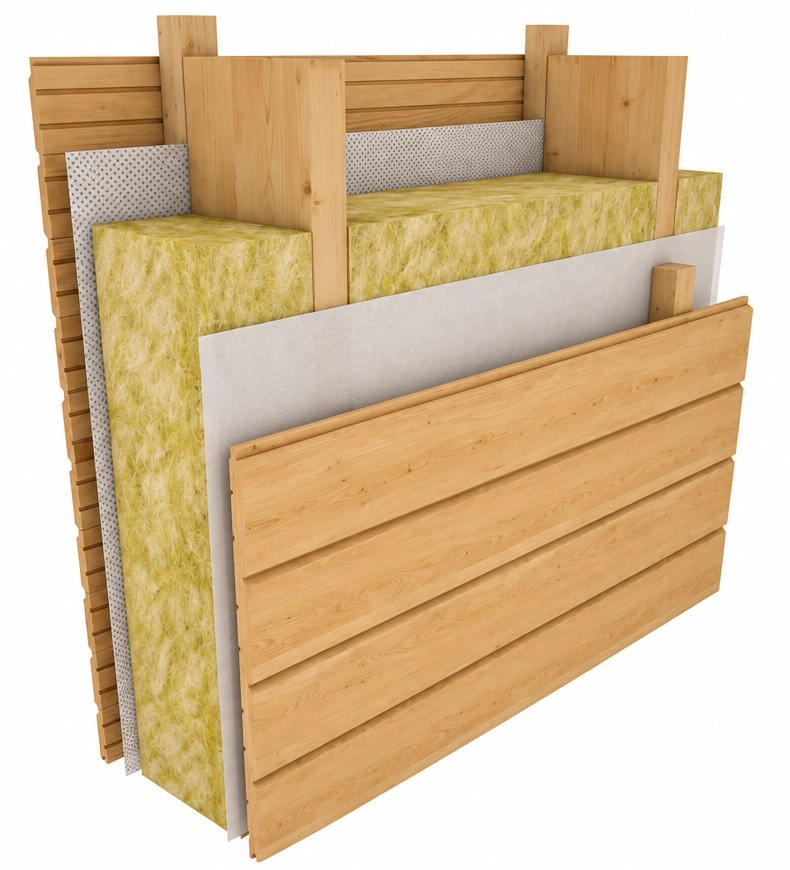
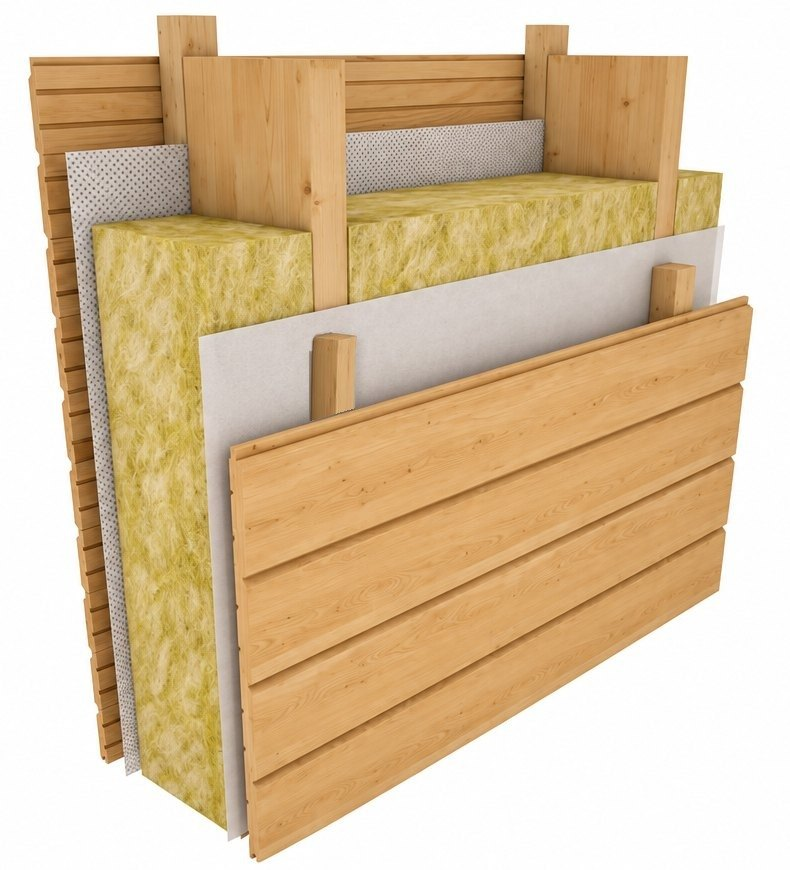
Reviews carousel, editable mortgage inputs, hours and map in contacts, MAX/VK links

Changed region(s): [[0.3646, 0.3724, 0.4557, 0.4966]]

diff --git a/css/style.css b/css/style.css
@@ -63,6 +63,8 @@ h1,h2,h3{font-family:'Inter Display','Inter',sans-serif;font-weight:800;letter-s
 .intro .mob{display:none}
 .stage video,.stage .night{position:absolute;inset:0;width:100%;height:100%;object-fit:cover;object-position:42% 50%}
 .stage .night{opacity:0}
+.stage canvas.pre{position:absolute;inset:0;width:100%;height:100%;object-fit:cover;object-position:42% 50%;transition:opacity .5s}
+.stage canvas.pre.off{opacity:0;pointer-events:none}
 .shade{position:absolute;inset:0;pointer-events:none;
   background:linear-gradient(180deg,rgba(25,17,11,.35) 0%,rgba(25,17,11,0) 22%,rgba(25,17,11,0) 55%,rgba(25,17,11,.55) 100%)}
 .tint{position:absolute;inset:0;pointer-events:none;opacity:0}
@@ -343,6 +345,13 @@ select{width:100%;appearance:none;-webkit-appearance:none;padding:16px 44px 16px
 .rng-top{display:flex;justify-content:space-between;align-items:baseline;gap:12px;margin-bottom:12px}
 .rng label{font-size:14px;font-weight:600;color:var(--muted)}
 .rng output{font-family:'Inter Display';font-weight:800;font-size:22px}
+.rng .num{display:inline-flex;align-items:baseline;gap:6px;font-family:'Inter Display';font-weight:800;font-size:22px;white-space:nowrap}
+.rng .num i{font-style:normal}
+.rng .num em{font-style:normal;color:var(--muted);font-size:18px}
+.ninp{font:inherit;color:inherit;width:9.2ch;text-align:right;border:0;border-bottom:1.5px dashed rgba(59,42,31,.35);background:transparent;padding:0 2px 1px;border-radius:0;outline:none;transition:border-color .2s,background .2s}
+.ninp.sm{width:3ch}
+.ninp:hover{border-bottom-color:var(--green)}
+.ninp:focus{border-bottom:1.5px solid var(--green);background:rgba(94,158,75,.08)}
 input[type=range]{width:100%;-webkit-appearance:none;appearance:none;height:6px;border-radius:3px;background:linear-gradient(90deg,var(--green) var(--p,50%),#e6ddd0 var(--p,50%));outline:none}
 input[type=range]::-webkit-slider-thumb{-webkit-appearance:none;width:24px;height:24px;border-radius:50%;background:#fff;border:3px solid var(--kofe);cursor:pointer;box-shadow:0 2px 8px rgba(0,0,0,.15)}
 input[type=range]::-moz-range-thumb{width:20px;height:20px;border-radius:50%;background:#fff;border:3px solid var(--kofe);cursor:pointer}
@@ -386,13 +395,31 @@ input[type=range]::-moz-range-thumb{width:20px;height:20px;border-radius:50%;bac
 
 /* ---------- индивидуальный проект ---------- */
 .custom{display:grid;grid-template-columns:1.1fr 1fr;gap:clamp(28px,5vw,64px);align-items:center}
-.custom-img{border-radius:24px;overflow:hidden;aspect-ratio:16/11}
+.custom-img{border-radius:24px;overflow:hidden;aspect-ratio:1448/1024}
 .custom-img img{width:100%;height:100%;object-fit:cover}
 .custom-txt p{margin:18px 0 22px;line-height:1.65;color:var(--muted);font-size:16px}
 .tags{display:flex;gap:8px;flex-wrap:wrap;margin-bottom:28px}
 .tags span{padding:9px 14px;border-radius:999px;background:var(--slivki);font-size:14px;font-weight:500}
 
 /* ---------- отзывы ---------- */
+.rvwrap{position:relative}
+.rvtrk{display:flex;gap:28px;overflow-x:auto;scroll-snap-type:x mandatory;scrollbar-width:none;padding:18px 6px 10px;-webkit-overflow-scrolling:touch}
+.rvtrk::-webkit-scrollbar{display:none}
+.rvc{flex:none;width:250px;margin:0;scroll-snap-align:start;text-align:center}
+.rvc:nth-child(odd) .rvph{transform:rotate(-2deg)}.rvc:nth-child(even) .rvph{transform:rotate(1.6deg)}
+.rvph{display:block;width:100%;aspect-ratio:9/17;border-radius:30px;background:#1e1712;padding:9px;box-shadow:0 18px 40px rgba(59,42,31,.22);position:relative;overflow:hidden;transition:transform .3s}
+.rvph:hover{transform:rotate(0) translateY(-4px)!important}
+.rvph img{width:100%;height:100%;object-fit:cover;object-position:top;border-radius:22px;display:block;background:#fff}
+.rvc.empty .rvph{background:#2a1e16}
+.rvc.empty .rvph:before{content:"";position:absolute;inset:9px;border-radius:22px;background:#efe7db}
+.rvc.empty .rvbar{position:absolute;left:9px;right:9px;top:9px;height:11%;border-radius:22px 22px 0 0;background:#d9cdbb;z-index:1}
+.rvb{position:absolute;z-index:1;height:8%;border-radius:14px;background:#fff;width:62%;box-shadow:0 1px 2px rgba(0,0,0,.06)}
+.rvb.l{left:10%;top:17%}.rvb.r{right:10%;top:28%;background:#d8ebcf;width:50%}.rvb.l.s{top:39%;width:44%}
+.rvc.empty p{position:absolute;z-index:1;left:0;right:0;bottom:16%;font-size:14px;font-weight:600;color:var(--muted);line-height:1.4}
+.rvc figcaption{margin-top:16px}
+.rvc figcaption b{display:block;font-size:16px}
+.rvc figcaption small{color:var(--muted);font-size:13px}
+.rvc.empty figcaption{opacity:.45}
 .reviews{display:grid;grid-template-columns:repeat(3,1fr);gap:20px}
 .rv{background:var(--paper);border-radius:var(--r);padding:26px;border:1px solid var(--line)}
 .rv p{line-height:1.6;margin-bottom:16px}
@@ -413,6 +440,11 @@ input[type=range]::-moz-range-thumb{width:20px;height:20px;border-radius:50%;bac
 .clist span{font-size:13px;color:rgba(243,236,225,.55);text-transform:uppercase;letter-spacing:.12em;font-weight:600}
 .clist a{font-size:clamp(17px,1.8vw,21px);font-weight:500;line-height:1.4}
 .clist a:hover{color:var(--brus)}
+.hours{font-size:clamp(17px,1.8vw,21px);font-weight:500;line-height:1.5}
+.map{position:relative;margin-top:clamp(28px,4vw,48px);height:400px;border-radius:var(--r);overflow:hidden;background:rgba(243,236,225,.06);border:1px solid rgba(243,236,225,.12)}
+.map iframe{position:absolute;inset:0;width:100%;height:100%;border:0}
+.map-open{position:absolute;left:14px;bottom:14px;z-index:2;background:var(--paper);color:var(--kofe);font-weight:600;font-size:14px;padding:10px 14px;border-radius:10px;box-shadow:0 6px 18px rgba(0,0,0,.25)}
+.map-open:hover{background:#fff}
 .msg{display:flex;gap:10px;flex-wrap:wrap}
 .mbtn{display:inline-flex;align-items:center;gap:10px;padding:13px 18px;border-radius:12px;border:1.5px solid rgba(243,236,225,.25);font-weight:600;font-size:15px;transition:all .2s}
 .mbtn svg{width:20px;height:20px;fill:currentColor}
@@ -496,6 +528,18 @@ input[type=range]::-moz-range-thumb{width:20px;height:20px;border-radius:50%;bac
 
 /* ---------- телефон ---------- */
 @media (max-width:760px){
+  .why{gap:12px}
+  .wi{display:grid;grid-template-columns:36px 1fr;column-gap:14px;row-gap:4px;align-items:center;padding:18px 20px}
+  .wi svg{width:36px;height:36px;margin:0;display:block}
+  .wi h3{font-size:19px;margin:0}
+  .wi p{grid-column:2}
+  .sec{padding:36px 0}
+  .head{gap:12px;margin-bottom:22px}
+  .rvtrk{padding:6px 4px 6px;gap:20px}
+  .rvc figcaption{margin-top:10px}
+  .map{height:320px}
+  .rvc{width:200px}
+  .rng .num{font-size:19px}
   .oit{height:220px}
   .msg{display:grid;grid-template-columns:1fr 1fr}
   .msg .mbtn{justify-content:center}
@@ -511,7 +555,7 @@ input[type=range]::-moz-range-thumb{width:20px;height:20px;border-radius:50%;bac
   .tint.i{background:linear-gradient(180deg,rgba(25,17,11,.55) 0%,rgba(25,17,11,.25) 45%,rgba(25,17,11,0) 70%)}
   .facts{gap:14px;flex-wrap:nowrap;width:100%;justify-content:space-between}
   .facts div{font-size:11px}.facts b{font-size:19px}
-  .stage video,.stage .night{object-position:38% 50%}
+  .stage video,.stage .night,.stage canvas.pre{object-position:38% 50%}
   .hint{bottom:90px}
   .rail{bottom:calc(76px + env(safe-area-inset-bottom))}
   .card{bottom:calc(96px + env(safe-area-inset-bottom))}

diff --git a/index.html b/index.html
@@ -13,7 +13,7 @@
 <meta property="og:image" content="media/poster.jpg">
 <link rel="icon" type="image/png" href="media/favicon.png">
 <link rel="preload" href="fonts/InterDisplay-ExtraBold.woff" as="font" type="font/woff" crossorigin>
-<link rel="stylesheet" href="css/style.css?v=9">
+<link rel="stylesheet" href="css/style.css?v=12">
 </head>
 <body>
 
@@ -258,21 +258,21 @@
         <div class="eyebrow">Ипотека</div>
         <h2>Ежемесячный платёж</h2>
       </div>
-      <p>Посчитайте примерный платёж по ипотеке на строительство дома.</p>
+      <p>Посчитайте примерный платёж по ипотеке на строительство дома. Цифры можно двигать ползунком или вписать вручную.</p>
     </div>
     <div class="mort">
       <div class="mort-form">
         <div class="seg" id="m-prog"></div>
         <div class="rng">
-          <div class="rng-top"><label for="m-sum">Стоимость дома</label><output id="m-sum-o"></output></div>
-          <input type="range" id="m-sum" min="1000000" max="10000000" step="10000">
+          <div class="rng-top"><label for="m-sum-o">Стоимость дома</label><span class="num"><input id="m-sum-o" class="ninp" inputmode="numeric" autocomplete="off"><i>₽</i></span></div>
+          <input type="range" id="m-sum" min="1000000" max="15000000" step="10000">
         </div>
         <div class="rng">
-          <div class="rng-top"><label for="m-down">Первый взнос</label><output id="m-down-o"></output></div>
-          <input type="range" id="m-down" min="20" max="90" step="1">
+          <div class="rng-top"><label for="m-down-o">Первый взнос</label><span class="num"><input id="m-down-o" class="ninp" inputmode="numeric" autocomplete="off"><i>₽</i><em id="m-down-p"></em></span></div>
+          <input type="range" id="m-down" min="20" max="90" step="0.1">
         </div>
         <div class="rng">
-          <div class="rng-top"><label for="m-years">Срок</label><output id="m-years-o"></output></div>
+          <div class="rng-top"><label for="m-years-o">Срок</label><span class="num"><input id="m-years-o" class="ninp sm" inputmode="numeric" autocomplete="off"><i id="m-years-u">лет</i></span></div>
           <input type="range" id="m-years" min="1" max="30" step="1">
         </div>
       </div>
@@ -337,7 +337,7 @@
 <section class="sec paper" id="custom">
   <div class="wrap">
     <div class="custom">
-      <div class="custom-img"><img src="img/houses/04_gran/r2.jpg" alt="Дом АМ Грань" loading="lazy"></div>
+      <div class="custom-img"><img src="img/custom.jpg" alt="Каркасный дом АМ ДОМ: от чертежа до готового дома" loading="lazy"></div>
       <div class="custom-txt">
         <div class="eyebrow">Индивидуальный проект</div>
         <h2>Не нашли подходящий дом?</h2>
@@ -352,11 +352,17 @@
   </div>
 </section>
 
-<!-- =============== ОТЗЫВЫ (скрыты, пока нет настоящих) =============== -->
-<section class="sec" id="reviews" hidden>
+<!-- =============== ОТЗЫВЫ: скриншоты переписок с клиентами =============== -->
+<section class="sec paper" id="reviews">
   <div class="wrap">
-    <div class="head"><div><div class="eyebrow">Отзывы</div><h2>Что говорят хозяева домов</h2></div></div>
-    <div class="reviews" id="revlist"></div>
+    <div class="head">
+      <div><div class="eyebrow">Отзывы</div><h2>Что пишут наши клиенты</h2></div>
+      <p>Настоящие сообщения от людей, которым мы построили дом. Нажмите на отзыв, чтобы прочитать его целиком.</p>
+    </div>
+    <div class="rvwrap">
+      <div class="rvtrk" id="revlist"></div>
+      <button class="onav p" aria-label="Назад">‹</button><button class="onav n" aria-label="Вперёд">›</button>
+    </div>
   </div>
 </section>
 
@@ -379,6 +385,7 @@
           <li><span>Телефон</span><a data-phone href="#"></a></li>
           <li><span>Почта</span><a data-email href="#"></a></li>
           <li><span>Офис</span><a data-map target="_blank" rel="noopener"></a></li>
+          <li><span>Режим работы</span><div class="hours" data-hours></div></li>
         </ul>
         <div class="msg">
           <a class="mbtn tg" data-tg target="_blank" rel="noopener"><svg viewBox="0 0 24 24"><path d="M21.5 3.6L2.9 10.8c-1.3.5-1.2 1.2-.2 1.5l4.8 1.5 1.8 5.6c.2.6.4.8.9.8.4 0 .6-.2.9-.4l2.3-2.2 4.7 3.5c.9.5 1.5.2 1.7-.8l3.1-14.6c.3-1.3-.5-1.9-1.4-1.6zM9.2 13.4l9.2-5.8c.4-.3.8-.1.5.2l-7.9 7.1-.3 3.3z"/></svg>Telegram</a>
@@ -402,6 +409,7 @@
         <button class="btn" type="submit"><span class="dot"></span>Отправить заявку</button>
       </form>
     </div>
+    <div class="map" id="map"><a class="map-open" data-maplink target="_blank" rel="noopener">Открыть в Яндекс Картах</a></div>
   </div>
 </section>
 </main>
@@ -476,7 +484,7 @@
   <button class="btn" id="cookie-ok">Хорошо</button>
 </div>
 
-<script src="js/data.js?v=8"></script>
-<script src="js/app.js?v=8"></script>
+<script src="js/data.js?v=10"></script>
+<script src="js/app.js?v=10"></script>
 </body>
 </html>

diff --git a/js/data.js b/js/data.js
@@ -15,9 +15,9 @@ window.SITE = {
     address: 'г. Нижний Новгород, ул. Гордеевская, 107, 3 этаж, офис 307',
     mapUrl: 'https://yandex.ru/maps/?text=%D0%9D%D0%B8%D0%B6%D0%BD%D0%B8%D0%B9%20%D0%9D%D0%BE%D0%B2%D0%B3%D0%BE%D1%80%D0%BE%D0%B4%2C%20%D1%83%D0%BB.%20%D0%93%D0%BE%D1%80%D0%B4%D0%B5%D0%B5%D0%B2%D1%81%D0%BA%D0%B0%D1%8F%2C%20107',
     telegram: 'https://t.me/+79087537788',
-    max: '',        // ссылка на MAX. Вписать сюда
+    max: 'https://max.ru/u/f9LHodD0cOIPFSgVfAneDtuZp8K5B3FztHhk56-5U1O8VPPr8Dyp-gzzSrI',
     avito: '',      // ссылка на Авито. Пока пусто, иконка скрыта
-    vk: ''          // ссылка на сообщество ВКонтакте. Вписать сюда
+    vk: 'https://vk.com/club243329852'
   },
 
   /* ---------- Реквизиты ---------- */
@@ -44,6 +44,10 @@ window.SITE = {
      Пока пусто, блок скрыт. Только настоящие отзывы. Пример:
      { name: 'Иван', house: 'АМ Ритм', text: 'Текст отзыва', photo: 'img/reviews/ivan.jpg' } */
   reviews: [],
+  /* Отзывы скриншотами переписок: файлы кладём в папку img/reviews, сюда пишем имя файла, имя клиента и дом.
+     Пример: { img: 'img/reviews/1.jpg', name: 'Ирина', house: 'АМ Норд' }
+     Пока список пустой, на сайте показываются пустые рамки «Скоро здесь будет отзыв». */
+  reviewShots: [],
 
   /* ---------- Комплектации ---------- */
   packages: [
@@ -272,3 +276,10 @@ window.SITE.objects = [22, 4, 5, 7, 8, 9, 3, 2, 12, 20, 11, 13, 19, 21, 17, 18, 
 
 /* ---------- Сноска к площади дома (значок «i» в окне дома) ---------- */
 window.SITE.areaNote = 'Проект дома представлен с учётом дополнительных опций, не включённых в стоимость, указанную на сайте. Площадь указана по внешнему контуру дома, без учёта террас, балконов и крыльца. Внесение изменений в проект может повлиять на стоимость. Площадь внутренних помещений при проектировании может отличаться от указанной на сайте в зависимости от используемых материалов и толщины стен.';
+
+/* ---------- Режим работы (в блоке «Контакты») ----------
+   ЗАГЛУШКА: уточнить у Алексея дни и часы. */
+window.SITE.hours = ['Пн–Пт: 9:00–19:00', 'Сб–Вс: по договорённости'];
+
+/* ---------- Карта в контактах (Яндекс Карты) ---------- */
+window.SITE.mapEmbed = 'https://yandex.ru/map-widget/v1/?text=' + encodeURIComponent('Нижний Новгород, Гордеевская улица, 107') + '&z=16';
